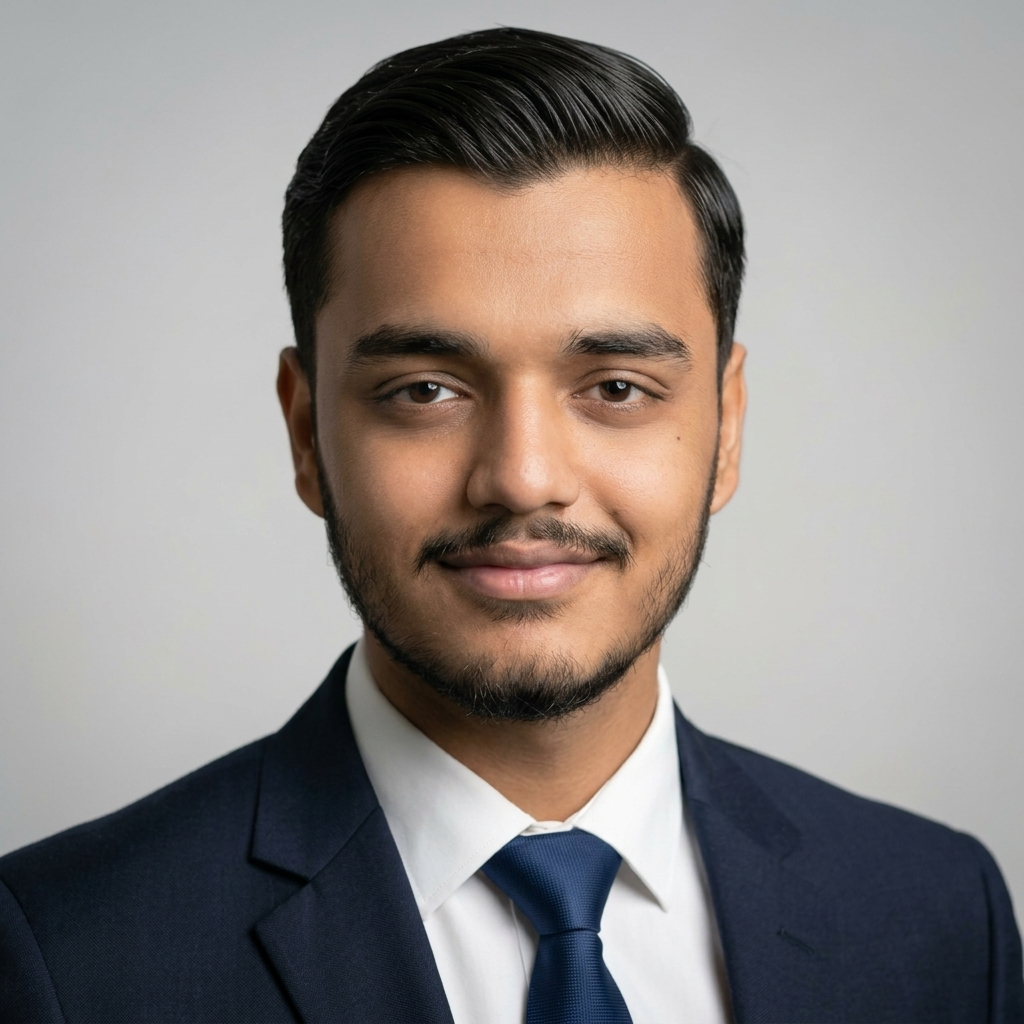
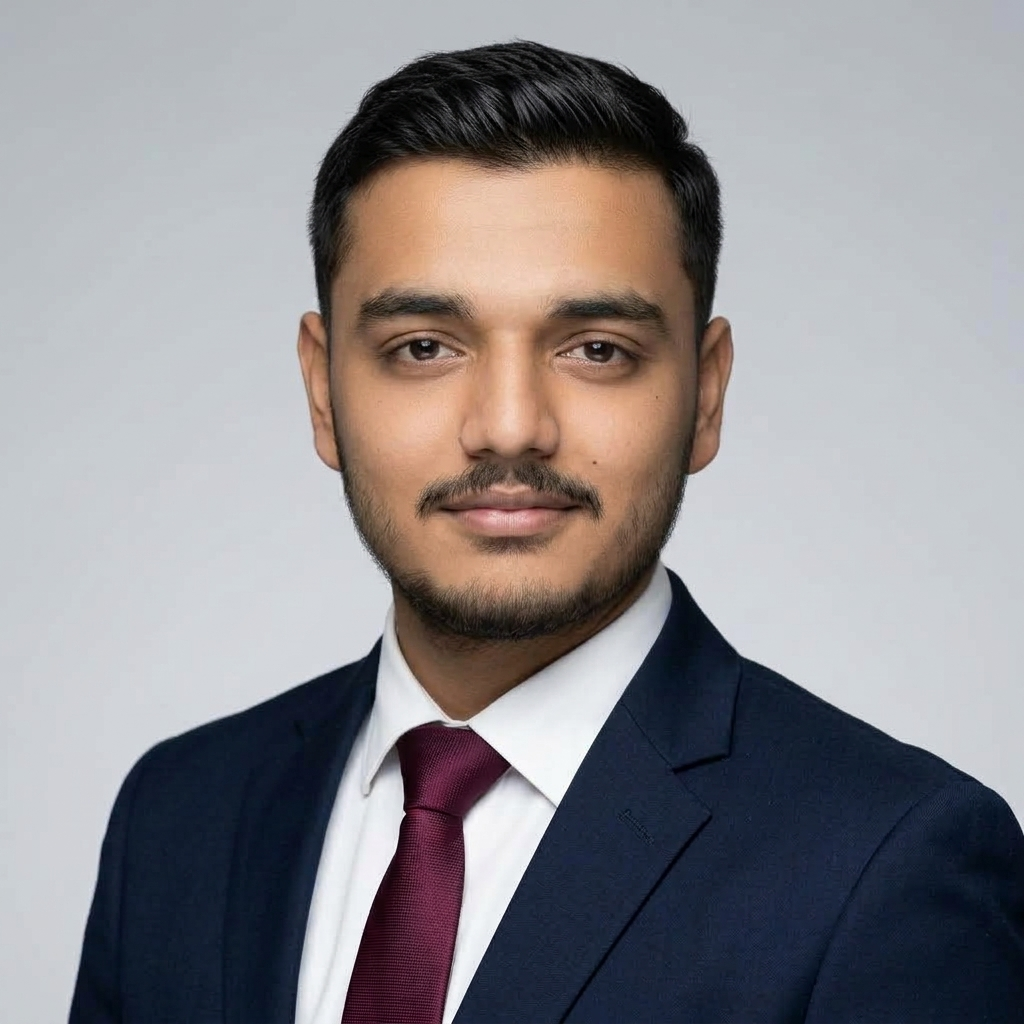
Adding pictures to Web

diff --git a/index.html b/index.html
@@ -175,10 +175,22 @@
   <div class="wrap">
     <div class="sec-head rv"><p class="eyebrow">Meet the team</p><h2>The people behind Rumiware</h2></div>
     <div class="grid g4">
-      <div class="card rv"><div class="avatar" aria-hidden="true">SA</div><h3>Salman Ali Aqdas</h3><p>CEO</p></div><!-- TODO: add photo -->
-      <div class="card rv"><div class="avatar" aria-hidden="true">AA</div><h3>Aamir Ashraf</h3><p>Data Scientist &amp; CTO</p></div>
-      <div class="card rv"><div style="position:relative;width:92px;height:92px;border-radius:50%;overflow:hidden;box-sizing:border-box;display:flex;align-items:center;justify-content:center;border:3px solid #D9B65C;background:#16A6A3;color:#fff;font:800 1.8rem sans-serif;margin-bottom:.6rem"><img src="images/hassan.jpeg" alt="Hassan" style="position:absolute;inset:0;width:100%;height:100%;object-fit:cover;object-position:center top;border-radius:0"></div><h3>Hassan</h3><p>Python Full-Stack Developer</p></div>
-      <div class="card rv"><div class="avatar" aria-hidden="true"></div><h3>Hussain</h3><p>Full Stack Developer</p></div>
+      <div class="card rv">
+        <div class="avatar-photo"><img src="images/salman.jpeg" alt="Salman Ali Aqdas" loading="lazy"></div>
+        <h3>Salman Ali Aqdas</h3><p>CEO</p>
+      </div>
+      <div class="card rv">
+        <div class="avatar-photo"><img src="images/aamir.jpeg" alt="Aamir Ashraf" loading="lazy"></div>
+        <h3>Aamir Ashraf</h3><p>Data Scientist &amp; CTO</p>
+      </div>
+      <div class="card rv">
+        <div class="avatar-photo"><img src="images/hassan.jpeg" alt="Hassan" loading="lazy"></div>
+        <h3>Hassan</h3><p>Python Full-Stack Developer</p>
+      </div>
+      <div class="card rv">
+        <div class="avatar-photo"><img src="images/hussain.jpeg" alt="Hussain" loading="lazy"></div>
+        <h3>Hussain</h3><p>Full Stack Developer</p>
+      </div>
     </div>
     <p style="margin-top:1.5rem"><a class="more" href="team.html">Meet the whole team &rarr;</a></p>
   </div>

diff --git a/style.css b/style.css
@@ -73,10 +73,10 @@ nav.open{display:block}nav ul{flex-direction:column;align-items:flex-start;gap:1
 .tech span{padding:.5rem 1.1rem;border:1px solid var(--line);border-radius:999px;background:var(--card);font-weight:600;font-size:.9rem;color:var(--head)}
 .tech span:hover{background-color: #076969;border-radius: solid 5px;}
 /* team */
-.avatar{width:92px;height:92px;border-radius:50%;display:grid;place-items:center;font:800 1.8rem var(--fh);color:#fff;background:linear-gradient(135deg,var(--teal),var(--dome));border:3px solid var(--gold);margin-bottom:.6rem}
-/*adding circular to image*/
-.avatar img {width: 100%;height: 100%;border-radius: 100%;object-fit: cover;object-position: center 20%;}
 /*additional MEMBER PHOTO */
+.avatar-photo {position: relative;width: 92px;height: 92px;border-radius: 50%;overflow: hidden;box-sizing: border-box;border: 3px solid #D9B65C;background: #16A6A3;margin-bottom: .6rem;}
+/*adding circular to image*/
+.avatar-photo img {position: absolute;inset: 0;width: 100%;height: 100%;object-fit: cover;object-position: center top;}
 .member-photo{position:relative;width:92px;height:92px;border-radius:50%;overflow:hidden;box-sizing:border-box;display:flex;align-items:center;justify-content:center;border:3px solid #D9B65C;background:linear-gradient(135deg,#16A6A3,#00706E);color:#fff;font:800 1.8rem sans-serif;margin-bottom:.6rem}
 .member-photo img{position:absolute;inset:0;width:100%;height:100%;object-fit:cover;object-position:center top;border-radius:0}
 
